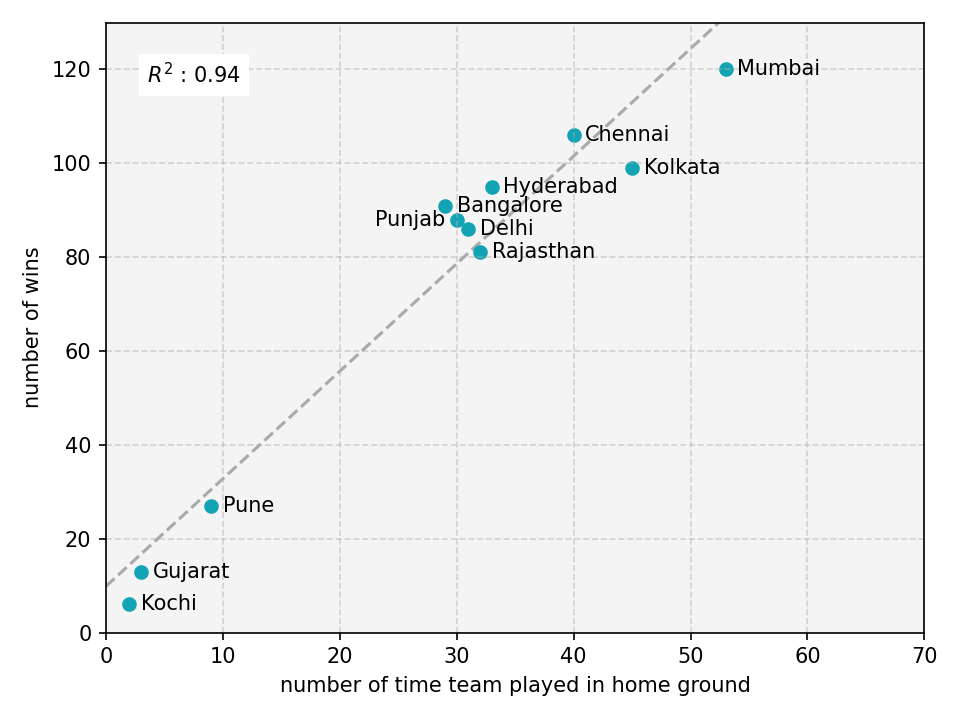
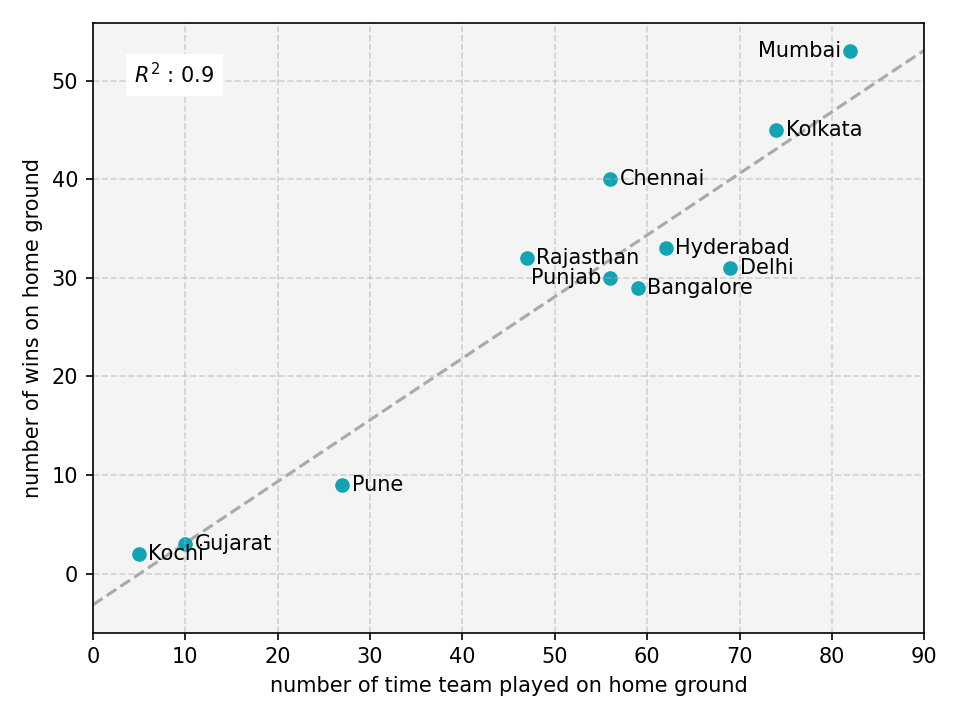
Corrected the home ground statistics

diff --git a/_posts/2020-12-13-spurious-correlations.md b/_posts/2020-12-13-spurious-correlations.md
@@ -42,61 +42,61 @@ is the correlation.
 
 Let us start with the toss :)
 
-|<a name="fig2"></a> <img src="{{page.assets}}/toss.png" width="70%"/>|
+|<a name="fig2"></a> <img src="{{page.assets}}/toss.png" width="80%"/>|
 |:--:|
-| Fig 2: Correlation between any team winning the match vs winning toss|
+| Fig 2: Correlation between no of times team won the match vs no of time they won the toss|
 
 Now team has to take a decision weather to bat first or field.
 
-|<a name="fig3"></a> <img src="{{page.assets}}/bat.png" width="70%"/>|
+|<a name="fig3"></a> <img src="{{page.assets}}/bat.png" width="80%"/>|
 |:--:|
-| Fig 3: Correlation between any team winning the match vs deciding to bat first|
+| Fig 3: Correlation between no of times team won the match vs no of times they decided to bat first after winning the toss|
 
 What if they decoded to field first instead bat?
 
-|<a name="fig4"></a> <img src="{{page.assets}}/field.png" width="70%"/>|
+|<a name="fig4"></a> <img src="{{page.assets}}/field.png" width="80%"/>|
 |:--:|
-| Fig 4: Correlation between any team winning the match vs deciding to field first|
+| Fig 4: Correlation between no of times team won the match vs no of times they decided to field first after winning the toss|
 
 Is it depend on number of matches team has played? Why not :)
 
-|<a name="fig5"></a> <img src="{{page.assets}}/matches.png" width="70%"/>|
+|<a name="fig5"></a> <img src="{{page.assets}}/matches.png" width="80%"/>|
 |:--:|
-| Fig 5: Correlation between any team winning the match vs number of matches played by that team.|
+| Fig 5: Correlation between no of times team won the match vs number of matches played by that team.|
 
 Maybe weather is affecting these results? Well, I did not have time to extract historic weather data, but 
 I did next best thing. Looked at in which city match was played.
 
-|<a name="fig6"></a> <img src="{{page.assets}}/city.png" width="70%"/>|
+|<a name="fig6"></a> <img src="{{page.assets}}/city.png" width="80%"/>|
 |:--:|
-| Fig 6: Correlation between any team winning the match vs number of team has played on their home ground.|
+| Fig 6: Correlation between no of times team won the match on their home ground vs number of team has played the match on their home ground.|
 
 ## What is happening?
 
 If you are a keen observer, it is pretty obvious that all these correlations might be due to two clusters of teams, 
-Pune, Gujarat, Kochi (which were active for only few IPL seasons) vs rest. Or is it? See Fig [7]($fig), which still 
-show very high correlation between two variables. 
+Pune, Gujarat, Kochi (which were active for only few IPL seasons) vs rest. You are on the right track. See Fig [7]($fig), 
+after removing these three teams, R<sup>2</sup> value dropped drastically when I removed those teams from the 
+correlation analysis. I observed a similar trend in all other plots. 
 
-|<a name="fig7"></a> <img src="{{page.assets}}/city_removed.png" width="70%"/>|
+|<a name="fig7"></a> <img src="{{page.assets}}/city_removed.png" width="80%"/>|
 |:--:|
-| Fig 7: Correlation between any team winning the match vs number of team has played on their home ground. After removing Pune, Gujarat and Kochi|
+| Fig 7: Correlation between no of times team won the match on their home ground vs number of team has played the match on their home ground. After removing Pune, Gujarat and Kochi|
 
-If you had thought of this reason before, you were on the correct path. Don't get fooled by selective data representation :) Fig [7](#ref7) was just a coincident.
-when I remove Pune, Gujrat and Kochi from the data, my R<sup>2</sup> value dropped to below 0.4 for rest of the plots! Those 
-teams were clear outliers in our correlation analysis. How can we prove this in more systematic way? I just aggregated data
+These three team were clear outliers in our correlation analysis. How can we prove this in more systematic way? I just aggregated data
 shown in all the plots above and then performed PCA. I was happy with the results. As expected, we can clearly see two clusters 
-of team (see Fig [8](#ref8)). It suggests that most variation in our data can be explained by just one variable.
+of team (see Fig [8](#fig8)). It suggests that 95% of variation in our data can be explained by just one variable (see x-axis of Fig 
+[8](#fig8)).
 
-|<a name="fig8"></a> <img src="{{page.assets}}/pca.png" width="70%"/>|
+|<a name="fig8"></a> <img src="{{page.assets}}/pca.png" width="80%"/>|
 |:--:|
 | Fig 8: PCA plot of all the data shown in this article.|
 
 Another way to perform proper correlation is by normalizing each team with their number of matches played. You can see the 
 correlation vanishes (as seen by lower R<sup>2</sup> value) in Fig [9](#fig9) in contrast to Fig [2](#fig2).
 
-|<a name="fig9"></a> <img src="{{page.assets}}/toss_norm.png" width="70%"/>|
+|<a name="fig9"></a> <img src="{{page.assets}}/toss_norm.png" width="80%"/>|
 |:--:|
-| Fig 9:  Correlation between any team winning the match vs winning toss. Data is normalized to number of matches played by the respective team.|
+| Fig 9:  Correlation between no of times team won the match vs winning toss. Data is normalized to number of matches played by the respective team.|
 
 There are still more variables in this dataset which can provide more 'spurious' correlations. Maybe next time:)
 
